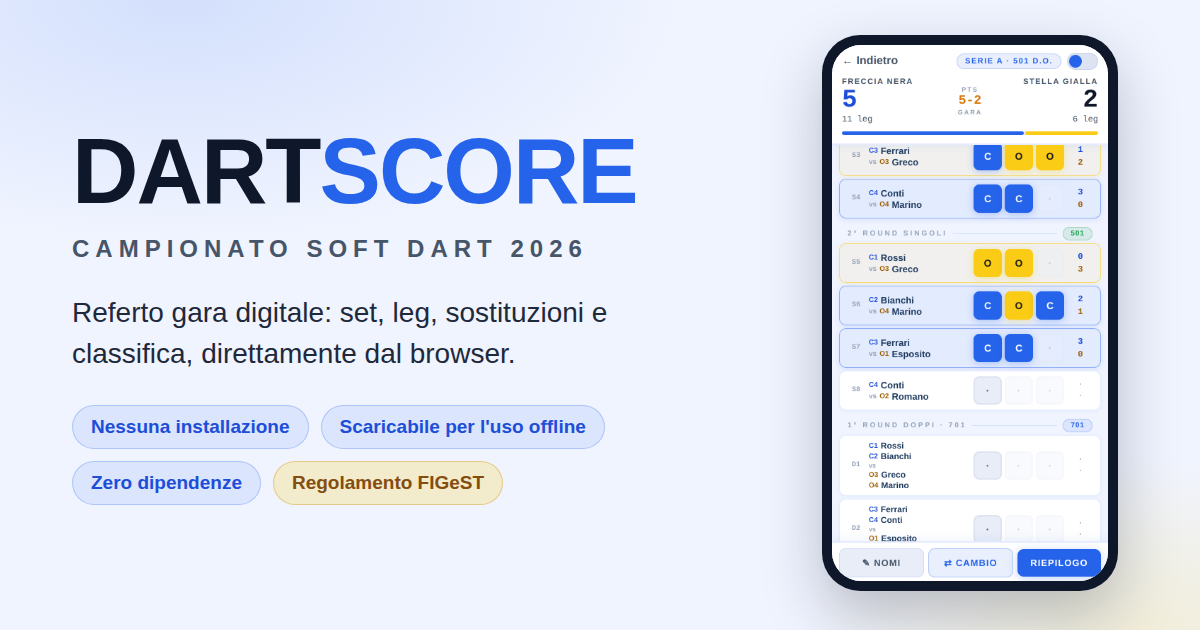
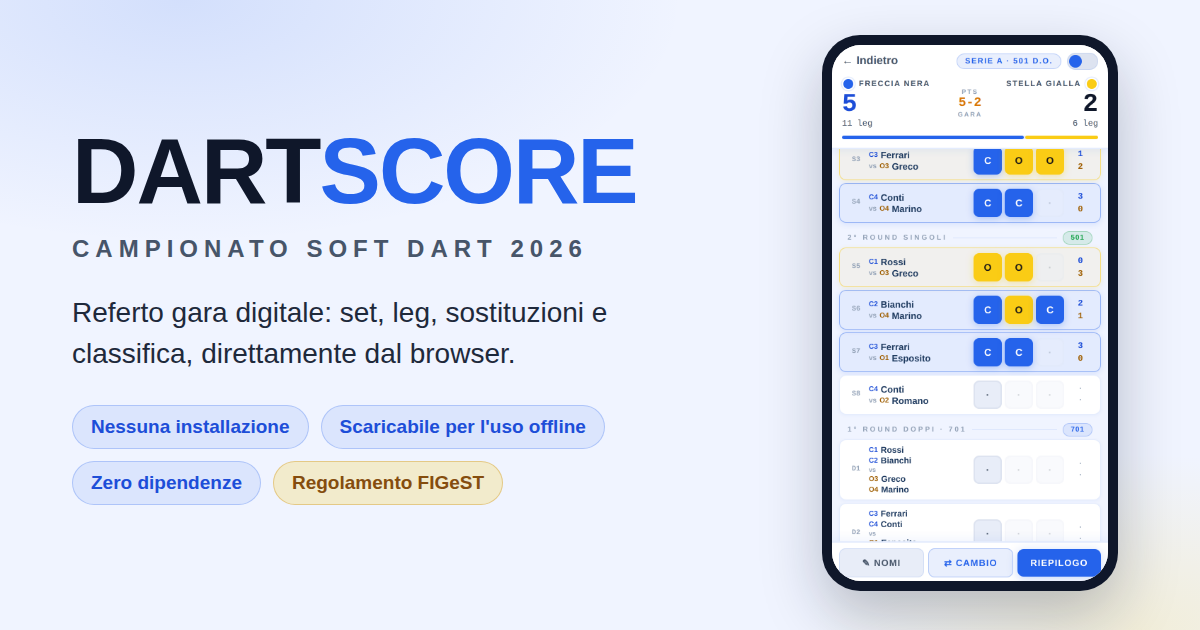
Pallini dei colori anche in alto durante la partita
Nell'intestazione del referto, accanto al nome di ogni squadra, c'e'
ora lo stesso pallino della schermata iniziale: mostra il colore e,
toccato, apre la tavolozza sotto la barra di avanzamento. Si puo'
quindi cambiare colore anche a partita in corso, senza tornare
indietro (cosa che farebbe perdere i dati).

Il pallino della Casa sta a sinistra del nome, quello dell'Ospite a
destra, come i punteggi. E' piu' piccolo (18px) per non affollare
l'intestazione, ma l'area di tocco e' allargata a 32px.

La logica ora lavora su tutti i pallini e tutte le tavolozze: un
cambio aggiorna insieme i pallini di entrambe le schermate, resta
aperta al massimo una tavolozza, e cambiando schermata si chiude.

Impronta FIGeST identica byte per byte, tests.html 83 su 83. Immagine
del referto e anteprima social rigenerate.

Claude-Session: https://claude.ai/code/session_01BraY2k2gzHaX9Cp6mtBnzH

Changed region(s): [[0.6783, 0.1206, 0.925, 0.8746], [0.6783, 0.1206, 0.7708, 0.181], [0.8633, 0.6635, 0.925, 0.6937]]

diff --git a/Darts_Score.html b/Darts_Score.html
@@ -154,6 +154,11 @@ input,select { font-family:inherit; font-size:16px!important; touch-action:manip
 .cdot-a { background:var(--ca); } .cdot-b { background:var(--os); }
 .cdot[aria-expanded="true"] { box-shadow:0 0 0 2px var(--tx); }
 .cdot:active { transform:scale(.88); }
+.sbn-row { display:flex; align-items:center; gap:6px; min-width:0; }
+.sbt.r .sbn-row { flex-direction:row-reverse; }
+.cdot.sm { width:18px; height:18px; position:relative; }
+.cdot.sm::after { content:''; position:absolute; top:-7px; right:-7px; bottom:-7px; left:-7px; }
+.pal-hdr.on { padding-top:10px; }
 .pal { max-height:0; overflow:hidden; visibility:hidden; opacity:0; transition:max-height .25s ease, opacity .2s, visibility 0s .25s; }
 .pal.on { max-height:240px; visibility:visible; opacity:1; transition:max-height .25s ease, opacity .2s, visibility 0s 0s; }
 .pal-t { font-size:10px; font-weight:800; letter-spacing:2px; text-transform:uppercase; margin:0 0 8px; }
@@ -623,16 +628,16 @@ input,select { font-family:inherit; font-size:16px!important; touch-action:manip
     <div class="card-t">Squadre &amp; Categoria</div>
     <div class="g2" style="margin-bottom:10px">
       <div class="fg">
-        <div class="fl-row"><div class="fl">Squadra Casa</div><button class="cdot cdot-a" id="cdot-A" onclick="togglePal('A')" aria-expanded="false" aria-controls="pal-A" aria-label="Colore Casa"></button></div>
+        <div class="fl-row"><div class="fl">Squadra Casa</div><button class="cdot cdot-a" id="cdot-A" onclick="togglePal('A','pal-A',this)" aria-expanded="false" aria-controls="pal-A" aria-label="Colore Casa"></button></div>
         <input id="inp-a" class="fi" type="text" placeholder="Squadra Casa" maxlength="20" autocomplete="off" spellcheck="false">
       </div>
       <div class="fg">
-        <div class="fl-row"><div class="fl">Squadra Ospite</div><button class="cdot cdot-b" id="cdot-B" onclick="togglePal('B')" aria-expanded="false" aria-controls="pal-B" aria-label="Colore Ospite"></button></div>
+        <div class="fl-row"><div class="fl">Squadra Ospite</div><button class="cdot cdot-b" id="cdot-B" onclick="togglePal('B','pal-B',this)" aria-expanded="false" aria-controls="pal-B" aria-label="Colore Ospite"></button></div>
         <input id="inp-b" class="fi" type="text" placeholder="Squadra Ospite" maxlength="20" autocomplete="off" spellcheck="false">
       </div>
     </div>
-    <div class="pal" id="pal-A"></div>
-    <div class="pal" id="pal-B"></div>
+    <div class="pal" id="pal-A" data-team="A"></div>
+    <div class="pal" id="pal-B" data-team="B"></div>
     <div class="fg">
       <div class="fl">Categoria</div>
       <div class="cg">
@@ -674,7 +679,7 @@ input,select { font-family:inherit; font-size:16px!important; touch-action:manip
     </div>
     <div class="sb">
       <div class="sbt">
-        <div class="sbn" id="hdr-na">CASA</div>
+        <div class="sbn-row"><button class="cdot cdot-a sm" id="cdot-rA" onclick="togglePal('A','pal-rA',this)" aria-expanded="false" aria-controls="pal-rA" aria-label="Colore Casa"></button><div class="sbn" id="hdr-na">CASA</div></div>
         <div class="sbs" id="hdr-sa">0</div>
         <div class="sbl" id="hdr-la">0 leg</div>
       </div>
@@ -684,7 +689,7 @@ input,select { font-family:inherit; font-size:16px!important; touch-action:manip
         <div class="sbcl">gara</div>
       </div>
       <div class="sbt r">
-        <div class="sbn" id="hdr-nb">OSPITE</div>
+        <div class="sbn-row"><button class="cdot cdot-b sm" id="cdot-rB" onclick="togglePal('B','pal-rB',this)" aria-expanded="false" aria-controls="pal-rB" aria-label="Colore Ospite"></button><div class="sbn" id="hdr-nb">OSPITE</div></div>
         <div class="sbs" id="hdr-sb">0</div>
         <div class="sbl" id="hdr-lb">0 leg</div>
       </div>
@@ -693,6 +698,8 @@ input,select { font-family:inherit; font-size:16px!important; touch-action:manip
       <div class="pga" id="prog-a" style="flex-grow:0"></div>
       <div class="pgb" id="prog-b" style="flex-grow:0"></div>
     </div>
+    <div class="pal pal-hdr" id="pal-rA" data-team="A"></div>
+    <div class="pal pal-hdr" id="pal-rB" data-team="B"></div>
   </div>
   <div class="slist" id="slist"></div>
   <div class="bb">
@@ -873,7 +880,7 @@ input,select { font-family:inherit; font-size:16px!important; touch-action:manip
     <p class="gd-note">Le regole descritte qui sono quelle <strong>predefinite</strong>, cioè del regolamento FIGeST 2026. Se hai modificato le <em>Impostazioni</em>, alcuni numeri possono essere diversi.</p>
 
     <h3>1 · Prima della partita</h3>
-    <p>Scrivi i nomi delle due squadre e scegli la categoria. Il pallino accanto a ogni nome mostra il colore della squadra: toccalo per sceglierne un altro. Ogni squadra ha 8 giocatori: <strong>C1–C4</strong> e <strong>O1–O4</strong> sono in campo, dal 5 all'8 sono le riserve. I nomi sono facoltativi: se lasci vuoto compare il codice (C1, O3…). Poi tocca <em>Inizia partita</em>.</p>
+    <p>Scrivi i nomi delle due squadre e scegli la categoria. Il pallino accanto al nome di ogni squadra, qui e in alto durante la partita, mostra il suo colore: toccalo per sceglierne un altro. Ogni squadra ha 8 giocatori: <strong>C1–C4</strong> e <strong>O1–O4</strong> sono in campo, dal 5 all'8 sono le riserve. I nomi sono facoltativi: se lasci vuoto compare il codice (C1, O3…). Poi tocca <em>Inizia partita</em>.</p>
 
     <h3>2 · Segnare i leg</h3>
     <p>Ogni incontro ha <b data-def="maxLeg">3</b> caselle, una per leg. Tocca una casella per assegnarla: la prima volta diventa <strong>C</strong> (vince Casa), la seconda <strong>O</strong> (vince Ospite), la terza torna vuota. L'incontro va a chi vince <b data-def="legWin">2</b> leg: l'ultimo si sblocca solo se serve.</p>
@@ -940,8 +947,8 @@ input,select { font-family:inherit; font-size:16px!important; touch-action:manip
  * ─────────────────────────────────────────────────────────────────────────────
  * MODIFICHE v2.13.0 rispetto a v2.12.0 (solo grafica: il calcolo del referto
  * non cambia):
- *   - Colori delle squadre scelti dall'utente: un pallino accanto a ogni nome
- *     mostra il colore, toccandolo si apre una tavolozza di dieci colori che si
+ *   - Colori delle squadre scelti dall'utente: un pallino accanto a ogni nome,
+ *     nella schermata iniziale e in alto nel referto, mostra il colore; toccandolo si apre una tavolozza di dieci colori che si
  *     richiude da sola dopo la scelta. Le due squadre non possono avere lo
  *     stesso colore. La scelta resta sul dispositivo, come il tema.
  *   - Predefiniti: blu per la Casa e giallo per l'Ospite (prima verde e
@@ -1313,7 +1320,7 @@ function askRispondi(v){
   r(v);
 }
 
-function showScr(id){ document.querySelectorAll('.scr').forEach(el=>el.classList.remove('on')); g(id).classList.add('on'); }
+function showScr(id){ closePal(); document.querySelectorAll('.scr').forEach(el=>el.classList.remove('on')); g(id).classList.add('on'); }
 async function goSetup(){
   const{done}=getTotals();
   if(done>0 && !(await askConfirm('Tornare al setup farà perdere i dati della partita.\nContinuare?','Tornare al setup?')))return;
@@ -2002,15 +2009,17 @@ function applyTeamColors(){
     const c=teamColor(TEAM_COL[x[0]]), pr='--'+x[1];
     st.setProperty(pr,c.c); st.setProperty(pr+'-ink',c.ink);
     st.setProperty(pr+'-tl',c.l); st.setProperty(pr+'-td',c.d); st.setProperty(pr+'-rgb',hexRgb(c.c));
-    const dot=g('cdot-'+x[0]);
-    if(dot){ dot.setAttribute('aria-label','Colore '+x[2]+': '+c.nome+'. Tocca per cambiarlo'); dot.title='Colore '+x[2]+': '+c.nome; }
+    /* I pallini sono due per squadra: nella schermata iniziale e in alto
+       durante la partita. Stesso comportamento, stessa etichetta. */
+    document.querySelectorAll('.cdot-'+x[0].toLowerCase()).forEach(function(dot){
+      dot.setAttribute('aria-label','Colore '+x[2]+': '+c.nome+'. Tocca per cambiarlo'); dot.title='Colore '+x[2]+': '+c.nome;
+    });
   });
   buildPalettes();
 }
 function buildPalettes(){
-  ['A','B'].forEach(function(t){
-    const box=g('pal-'+t); if(!box) return;
-    const altro=TEAM_COL[t==='A'?'B':'A'];
+  document.querySelectorAll('.pal[data-team]').forEach(function(box){
+    const t=box.getAttribute('data-team'), altro=TEAM_COL[t==='A'?'B':'A'];
     box.innerHTML='<div class="pal-t" style="color:var(--'+(t==='A'?'ca':'os')+'-tx)">Colore '+(t==='A'?'Casa':'Ospite')+'</div><div class="pal-g">'+
       TEAM_COLORS.map(function(c){
         const sel=c.id===TEAM_COL[t], usato=c.id===altro;
@@ -2020,21 +2029,22 @@ function buildPalettes(){
       }).join('')+'</div>';
   });
 }
-function togglePal(t){
-  const apri=_palAperta!==t;
+/* Apre la tavolozza palId accanto al pallino toccato; un secondo tocco sullo
+   stesso pallino la richiude. Ne resta aperta al massimo una. */
+function togglePal(t,palId,dot){
+  const gia=_palAperta && _palAperta.pal===palId;
   closePal();
-  if(!apri) return;
-  _palAperta=t;
-  g('pal-'+t).classList.add('on'); g('cdot-'+t).setAttribute('aria-expanded','true');
+  if(gia) return;
+  const box=g(palId); if(!box) return;
+  _palAperta={pal:palId,dot:dot||null};
+  box.classList.add('on'); if(dot) dot.setAttribute('aria-expanded','true');
   /* Il focus va sul colore scelto: da tastiera si prosegue con Tab. Dopo un
      tocco non compare l'anello di focus, che segue :focus-visible. */
-  setTimeout(function(){ const s=g('pal-'+t).querySelector('.csw[aria-pressed="true"]'); if(s) s.focus(); },60);
+  setTimeout(function(){ const s=box.querySelector('.csw[aria-pressed="true"]'); if(s) s.focus(); },60);
 }
 function closePal(){
-  ['A','B'].forEach(function(t){
-    const p=g('pal-'+t); if(p) p.classList.remove('on');
-    const d=g('cdot-'+t); if(d) d.setAttribute('aria-expanded','false');
-  });
+  document.querySelectorAll('.pal.on').forEach(function(p){ p.classList.remove('on'); });
+  document.querySelectorAll('.cdot[aria-expanded="true"]').forEach(function(d){ d.setAttribute('aria-expanded','false'); });
   _palAperta=null;
 }
 function pickColor(t,id){
@@ -2044,11 +2054,12 @@ function pickColor(t,id){
   applyTeamColors();
   if(navigator.vibrate) navigator.vibrate(VIBRATE_MS);
   /* Si richiude da sola: il ritardo lascia vedere la spunta sul colore scelto. */
-  setTimeout(function(){ closePal(); const d=g('cdot-'+t); if(d) d.focus(); },220);
+  const dot=_palAperta && _palAperta.dot;
+  setTimeout(function(){ closePal(); if(dot) dot.focus(); },220);
 }
 /* Esc o un tocco fuori chiudono la tavolozza aperta. */
 document.addEventListener('keydown',function(e){
-  if(e.key==='Escape' && _palAperta && !_modali.length){ const t=_palAperta; closePal(); const d=g('cdot-'+t); if(d) d.focus(); }
+  if(e.key==='Escape' && _palAperta && !_modali.length){ const d=_palAperta.dot; closePal(); if(d) d.focus(); }
 });
 document.addEventListener('click',function(e){
   if(!_palAperta) return;

diff --git a/CHANGELOG.md b/CHANGELOG.md
@@ -10,7 +10,7 @@ Il file dell'app è [`Darts_Score.html`](Darts_Score.html): il nome resta stabil
 
 I colori delle squadre si scelgono, e i nuovi predefiniti sono **blu per la Casa e giallo per l'Ospite**. **Il calcolo del referto non cambia**: calendario, punteggi, classifica e somma di controllo sono identici, verificati byte per byte con i predefiniti FIGeST.
 
-- **Un pallino accanto al nome di ogni squadra** mostra il suo colore. Toccandolo si apre una tavolozza di dieci colori — blu, azzurro, verde acqua, verde, giallo, arancione, rosso, rosa, viola, grigio — che si richiude da sola dopo la scelta. Il colore cambia subito ovunque: sigle dei giocatori, caselle dei leg, punteggio, barra di avanzamento, riepilogo, classifica e stampa
+- **Un pallino accanto al nome di ogni squadra**, nella schermata iniziale e in alto durante la partita, mostra il suo colore. Toccandolo si apre una tavolozza di dieci colori — blu, azzurro, verde acqua, verde, giallo, arancione, rosso, rosa, viola, grigio — che si richiude da sola dopo la scelta. Il colore cambia subito ovunque: sigle dei giocatori, caselle dei leg, punteggio, barra di avanzamento, riepilogo, classifica e stampa
 - **Le due squadre non possono avere lo stesso colore**: quello già scelto dall'altra appare sbiadito e non si può toccare
 - La scelta **resta sul dispositivo**, come il tema chiaro o scuro: la partita dopo la ritrovi. Il Reset completo non la cancella, perché è una preferenza e non un dato della partita
 - **Perché blu e giallo.** Circa un uomo su dodici distingue male il rosso dal verde, e la vecchia coppia verde/rosso era proprio la meno leggibile per loro. Chi preferisce il vecchio aspetto lo ritrova scegliendo Verde e Rosso
